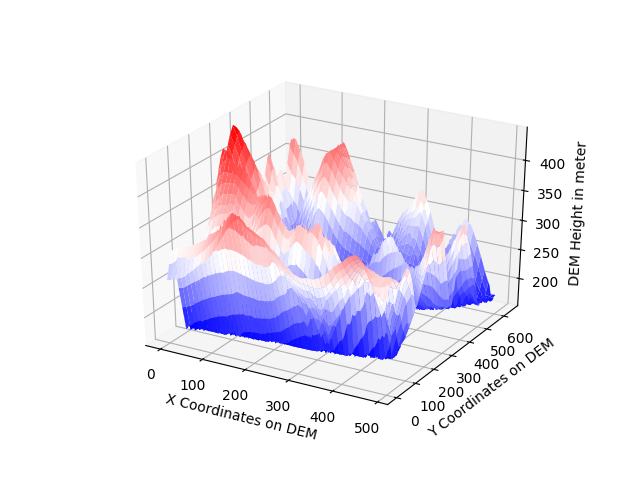
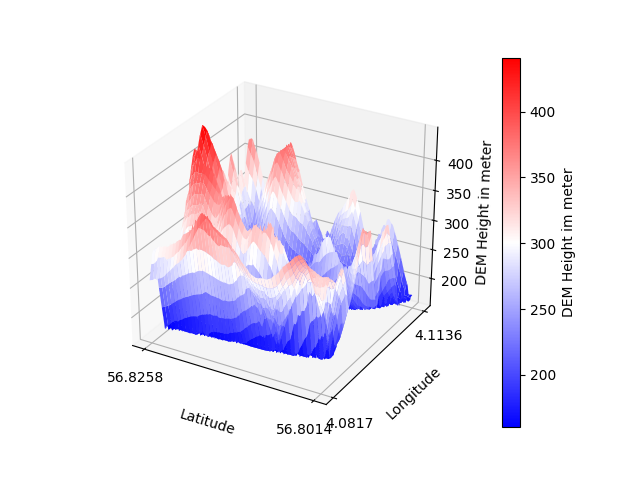
Legend and DEM Position Information

Changed region(s): [[0.1562, 0.0938, 0.9375, 0.9375]]

diff --git a/show_dem.py b/show_dem.py
@@ -6,7 +6,7 @@ from matplotlib.ticker import LinearLocator, FormatStrFormatter
 import numpy as np
 import os
 
-import gdal
+from osgeo import gdal
 
 def showDEM(link_to_tif):
 
@@ -17,9 +17,32 @@ def showDEM(link_to_tif):
     width = dem.RasterXSize
     height = dem.RasterYSize
 
-    # Fill x and y with range to the extent of the DEM
-    x = range(height)
-    y = range(width)
+    # This part recalculates the x/y coordinates to the latitude and longitude of the dem
+    # This is very, very memory intensive and my machine is not able to complete it without overflowing
+    # my memory of 16 GB (!). Runtime of the algorithm should be somewhere around O(n^2)
+
+    # This would create the possibility to display the carpet within its correct spatial boundary..
+    '''
+    xoffset, a, b, yoffset, d, e = dem.GetGeoTransform()
+
+    def pixel2coord(x,y):
+        xp = a* x + b * y + xoffset
+        yp = d * x + e * y + yoffset
+        return (xp,yp)
+
+    x = []
+    y = []
+
+    print pixel2coord(0,0)
+    for row in range(0,height):
+        for col in range(0,width):
+            coords = pixel2coord(col,row)
+            x.append(coords[0])
+            y.append(coords[1])
+    '''
+    # Fill with zeroes since only elevation data is relevant
+    x = range(0, height)
+    y = range(0, width)
 
     # Create a meshgrid for x and y data
     X, Y = np.meshgrid(x, y)
@@ -39,17 +62,43 @@ def showDEM(link_to_tif):
     zs = np.array([getElevation(x,y) for x,y in tmp])
     Z = zs.reshape(X.shape)
 
+    # Create figure
     fig = plt.figure()
     ax = fig.add_subplot(111, projection='3d')
     ax.set_zlabel('DEM Height in meter', rotation=90)
-    ax.set_ylabel('Y Coordinates on DEM')
-    ax.set_xlabel('X Coordinates on DEM')
-    ax.plot_surface(X,Y,Z, cmap=cm.bwr, linewidth=0, antialiased=True)
+
+    # Add Axis Labels
+    ax.set_ylabel('Longitude')
+    ax.set_xlabel('Latitude')
+
+    xoffset, a, b, yoffset, d, e = dem.GetGeoTransform()
+
+    # Function to manually calulate the lat/lng of a pixel
+    def pixel2coord(x,y):
+        xp = a* x + b * y + xoffset
+        yp = d * x + e * y + yoffset
+
+        # Round them to 4 decimal places and reduce it to common format
+        xp *= 0.00001
+        yp *= 0.00001
+        return (round(xp,4),round(yp,4))
+
+
+    # Plot surface
+    plot = ax.plot_surface(X,Y,Z, cmap=cm.bwr, linewidth=0, antialiased=True)
+
+    # Plot Legend
+    fig.colorbar(plot, label='DEM Height im meters')
+
+    # Add labels for the corners
+    plt.xticks([0,height], [pixel2coord(0,0)[1],pixel2coord(0,height)[1]])
+    plt.yticks([0,width], [pixel2coord(0, height)[0],pixel2coord(width, height)[0]])
 
     # Save image to file
-
     fig.savefig('DEM.png')
 
     plt.show()
 
+
 showDEM('/Users/nico/Desktop/dgm1_5meter_subset.img')
+#showDEM('/Users/nico/Desktop/ArcGIS-Data/clipped_dem.tif')

diff --git a/time_space_cube.py b/time_space_cube.py
@@ -45,6 +45,10 @@ def loadGPX(link_to_gpx):
     ax.set_xlabel('Latitude')
     ax.set_ylabel('Longitude')
 
+    # Add legend
+    fig.colorbar(plot, label='Time passed', shrink=0.5)
+
+
     plt.savefig('time_space_cube.png')
     plt.show()
 
